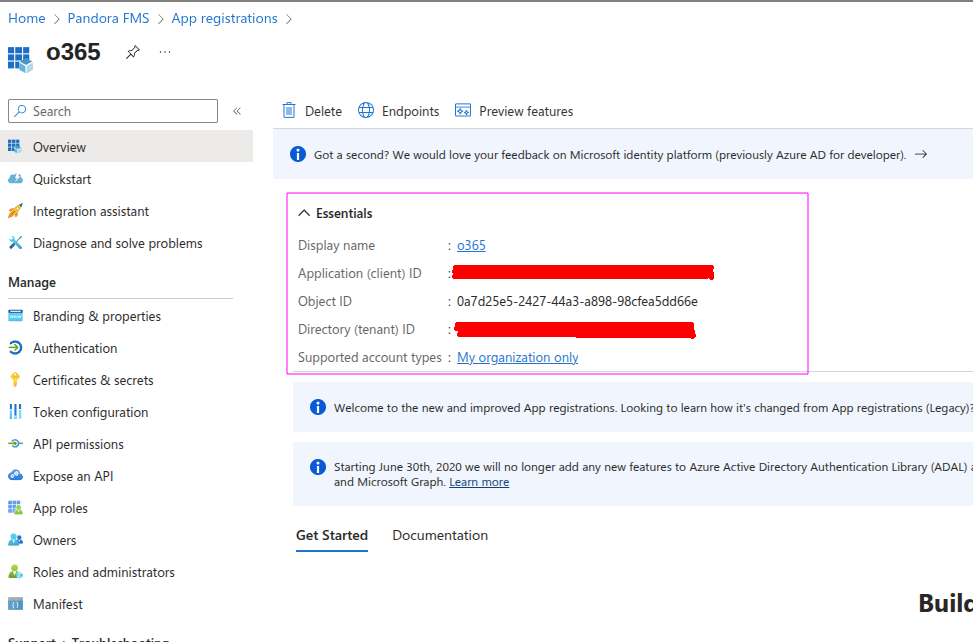
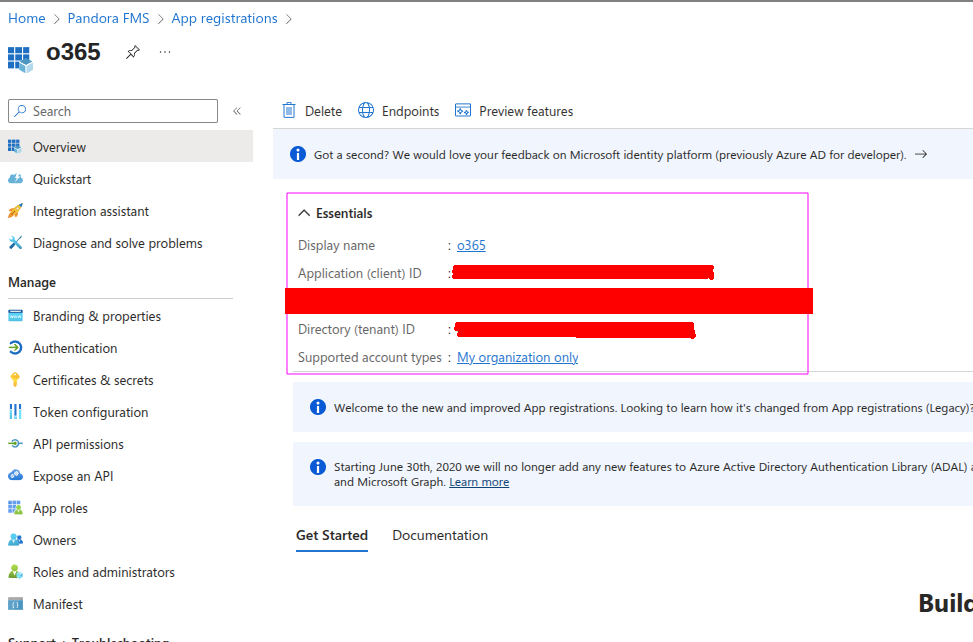
docs: redact tenant object ID and align compatibility wording
Redact the unredacted Object ID in the Office 365 Discovery capture, mark
the Marketplace-wide NG 784 statement as not validated on the Journalctl
page, and cross-link the RabbitMQ local and Marketplace plugin pages.

Changed region(s): [[0.2775, 0.4361, 0.8325, 0.4984]]

diff --git a/docs/es/plugins/journalctl.md b/docs/es/plugins/journalctl.md
@@ -32,7 +32,7 @@ coinciden.
 | Host Linux con systemd y `journalctl` en el `PATH` | `Required` | `journalctl` es la única fuente de datos del plugin: cuando el comando no está disponible, la ejecución termina con error y no imprime ninguna entrada |
 | Cuenta con permiso para leer el journal | `Required` | El plugin lee el journal mediante `journalctl` con los permisos de la cuenta que ejecuta el agente; cuando el journal no se puede leer, el comando falla y la ejecución termina con error |
 | Agente de Pandora FMS instalado en el host monitorizado | `Required` | El plugin lo ejecuta el agente y su salida se consume como salida de plugin de agente |
-| Pandora FMS NG 784 y posteriores | `Supported` | El Marketplace indica que todas sus integraciones son compatibles con Pandora FMS NG 784 y versiones posteriores. Es una declaración general del Marketplace, no una declaración específica de este addon |
+| Pandora FMS NG 784 y posteriores | `Not validated` | El Marketplace indica que todas sus integraciones son compatibles con Pandora FMS NG 784 y versiones posteriores. Es una declaración general del Marketplace, no una declaración específica de este addon, así que no basta para `Supported` |
 | Distribuciones y versiones concretas de Linux | `Not validated` | No hay ninguna matriz de distribuciones o versiones registrada para este addon |
 
 El plugin se ejecuta en el propio host monitorizado: informa únicamente del

diff --git a/docs/en/plugins/journalctl.md b/docs/en/plugins/journalctl.md
@@ -31,7 +31,7 @@ that match or by dropping the ones that match.
 | A Linux host with systemd and `journalctl` in the `PATH` | `Required` | `journalctl` is the only data source of the plugin: when the command is not available the run ends with an error and prints no entries |
 | An account allowed to read the journal | `Required` | The plugin reads the journal through `journalctl` with the permissions of the account that runs the agent; when the journal cannot be read the command fails and the run ends with an error |
 | A Pandora FMS agent installed on the monitored host | `Required` | The plugin is executed by the agent and its output is consumed as agent plugin output |
-| Pandora FMS NG 784 and later | `Supported` | The Marketplace states that all its integrations are compatible with Pandora FMS NG 784 and later versions. It is a general Marketplace statement, not a statement specific to this addon |
+| Pandora FMS NG 784 and later | `Not validated` | The Marketplace states that all its integrations are compatible with Pandora FMS NG 784 and later versions. It is a general Marketplace statement, not a statement specific to this addon, so it is not enough for `Supported` |
 | Individual Linux distributions and versions | `Not validated` | No distribution or version matrix is recorded for this addon |
 
 The plugin runs on the monitored host itself: it reports the journal of that

diff --git a/docs/es/plugins/rabbitmq-local.md b/docs/es/plugins/rabbitmq-local.md
@@ -12,6 +12,8 @@ de conexiones y una comprobación de disponibilidad.
 
 El plugin admite dos modelos de ejecución:
 
+> Esta página documenta el plugin incluido con el agente de Pandora FMS. El addon del Marketplace `pandorafms.rabbitmq` es otro distinto: consulte [Plugin de monitorización de RabbitMQ](rabbitmq.md).
+
 - **Modo plugin de servidor** (por defecto; se selecciona cuando
   `as_agent_plugin` está ausente, es `0` o está vacío): cada ejecución
   construye un documento `agent_data` y lo entrega a Pandora FMS mediante

diff --git a/docs/en/plugins/rabbitmq-local.md b/docs/en/plugins/rabbitmq-local.md
@@ -11,6 +11,8 @@ exchange activity, connection counters and an availability check.
 
 The plugin supports two execution models:
 
+> This page documents the plugin bundled with the Pandora FMS agent. The Marketplace addon `pandorafms.rabbitmq` is a different one: see [RabbitMQ monitoring plugin](rabbitmq.md).
+
 - **Server plugin mode** (default; selected when `as_agent_plugin` is absent,
   `0` or empty): each run builds an `agent_data` document and delivers it to
   Pandora FMS through Tentacle or through a local data folder.
